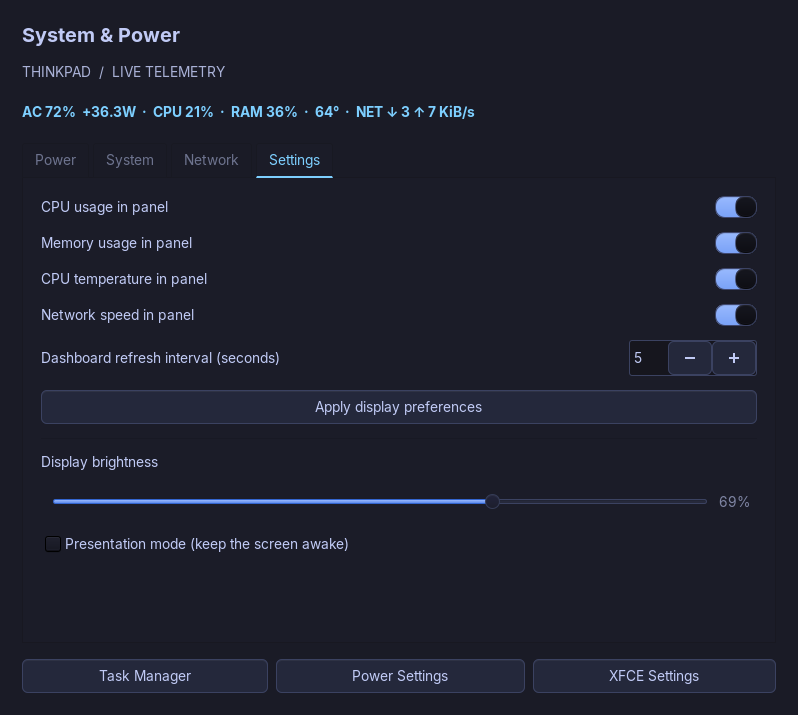
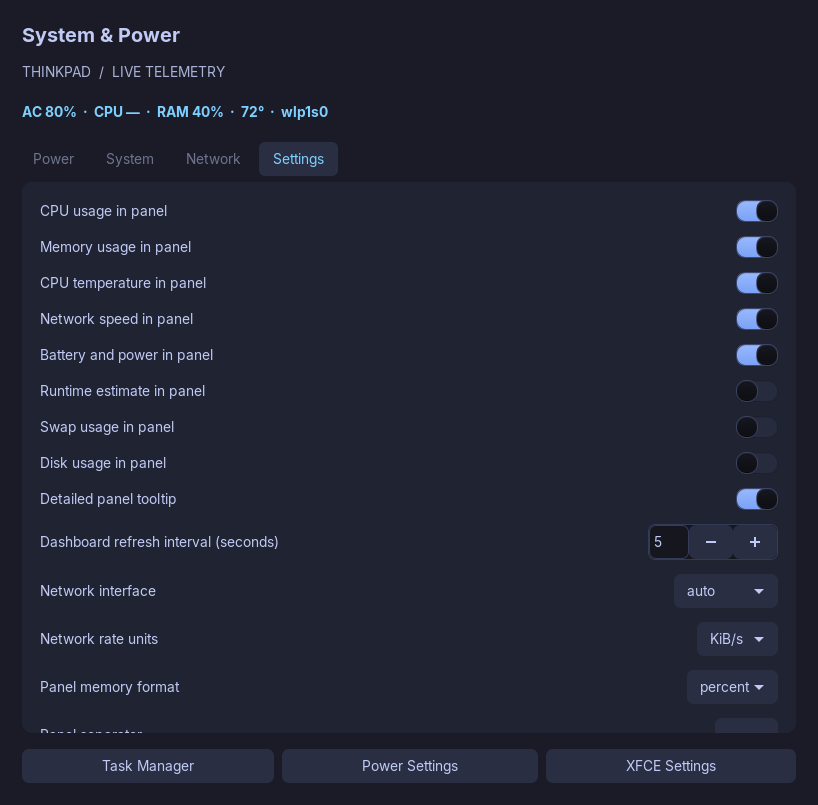
Expand dashboard preferences and unify XFCE surface styling

diff --git a/config/gtk.css b/config/gtk.css
@@ -31,3 +31,18 @@ XfdesktopIconView { -XfdesktopIconView-cell-text-width-proportion: 2.8; -Xfdeskt
 #xfwm-tabwin { background-color: #1a1b26; color: #c0caf5; border: 1px solid #7aa2f7; border-radius: 10px; padding: 10px; }
 #xfwm-tabwin label, #xfwm-tabwin button label { color: #c0caf5; }
 #xfwm-tabwin button:checked, #xfwm-tabwin button:hover { background-color: #343b58; color: #c0caf5; }
+
+/* Unified surfaces: boundaries belong to containers, not every child. */
+window:not(.xfce4-panel) notebook { border: none; background-color: transparent; }
+window:not(.xfce4-panel) notebook > header { background: transparent; border: none; box-shadow: none; padding: 0 0 8px; }
+window:not(.xfce4-panel) notebook > header tab { background: transparent; border: none; box-shadow: none; border-radius: 6px; margin: 0 4px 0 0; padding: 7px 14px; }
+window:not(.xfce4-panel) notebook > header tab:checked { background: #292e42; border: none; }
+window:not(.xfce4-panel) notebook > stack { background: #202332; border: none; border-radius: 10px; }
+window:not(.xfce4-panel) scrolledwindow { border: none; box-shadow: none; }
+window:not(.xfce4-panel) scrolledwindow undershoot { background: none; }
+window:not(.xfce4-panel) button:not(.flat) { border-color: transparent; background-image: none; background-color: #292e42; box-shadow: none; border-radius: 7px; }
+window:not(.xfce4-panel) button:not(.flat):hover { border-color: transparent; background-color: #343b58; }
+window:not(.xfce4-panel) entry, window:not(.xfce4-panel) spinbutton { border: 1px solid #343b58; border-radius: 7px; box-shadow: none; background: #16161e; }
+window:not(.xfce4-panel) spinbutton button { border: none; border-radius: 0; background: transparent; }
+separator { min-width: 1px; min-height: 1px; background-color: #292e42; }
+.xfce4-panel separator { background: transparent; }

diff --git a/README.md b/README.md
@@ -37,7 +37,8 @@ The bootstrap tracks `main`; for a frozen installation, check out a specific Git
 - Inter UI font and JetBrains Mono terminal font; Noto CJK and emoji fallback.
 - One 36px panel: application menu, four workspaces, application buttons, unified telemetry, tray, audio, keyboard layout, notifications, date and time.
 - English **System & Power** dashboard: battery flow, watts, runtime estimate, charge thresholds, CPU, temperatures, fan, memory, swap, disk and network rates.
-- Dashboard preferences for panel metrics, window refresh interval, brightness and presentation mode. Panel updates every five seconds.
+- Dashboard preferences for each panel metric, window refresh interval, network interface, network units, memory format, disk path, averaging, separator, accent colour, tooltip, brightness and presentation mode. Panel updates every five seconds.
+- Manual ICMP connectivity test bound to the selected interface, with a configurable IP/hostname. No periodic probes. A missing ICMP reply does not prove internet failure. `auto` telemetry uses the IPv4 default-route interface where available; explicit interface selection is recommended for VPN/policy-routing setups.
 - English eye-break reminder every 20 minutes, started after XFCE login, with duplicate-instance protection.
 - Four workspaces; `Ctrl+1…4` switches and `Alt+1…4` moves a window. Workspace add/delete bindings (`Alt+Insert`, `Alt+Delete`) are disabled.
 - Personal window bindings, including `Alt+Left/Right` tiling and `Alt+AudioMicMute` closing a window. These replace the corresponding XFCE bindings; review `config/xfconf.json` if sharing this profile.
